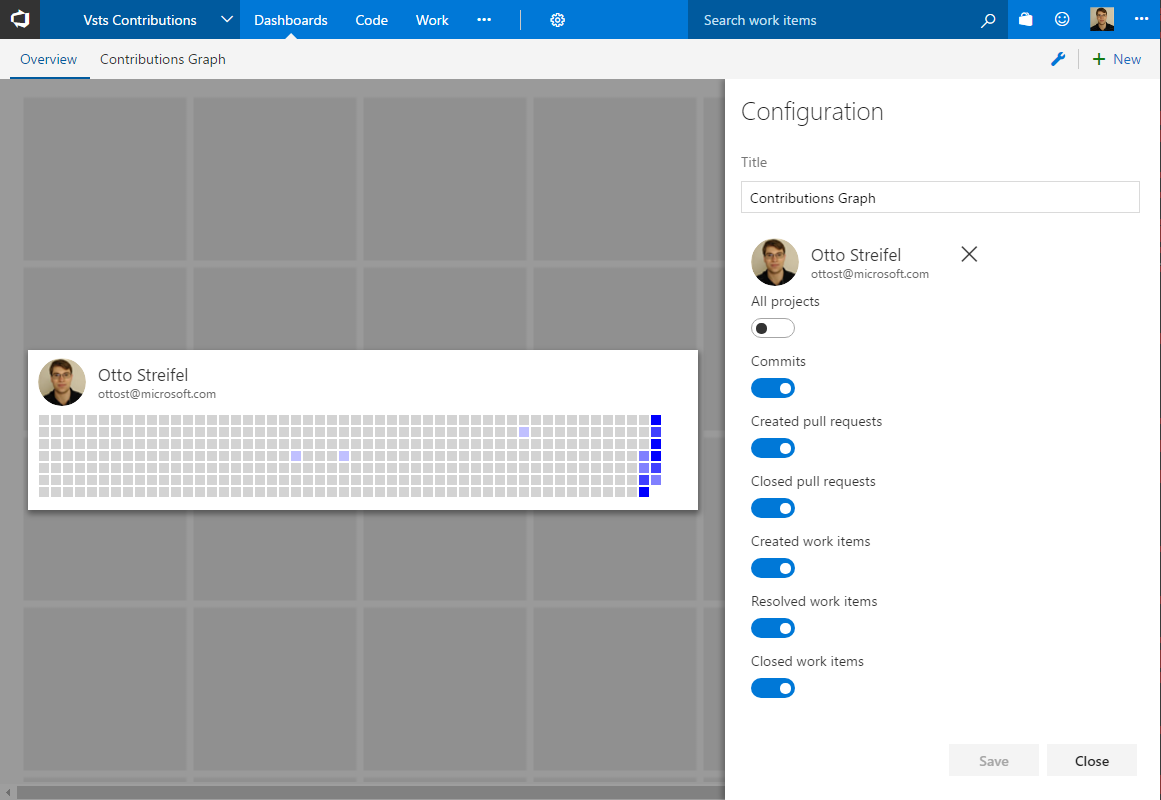
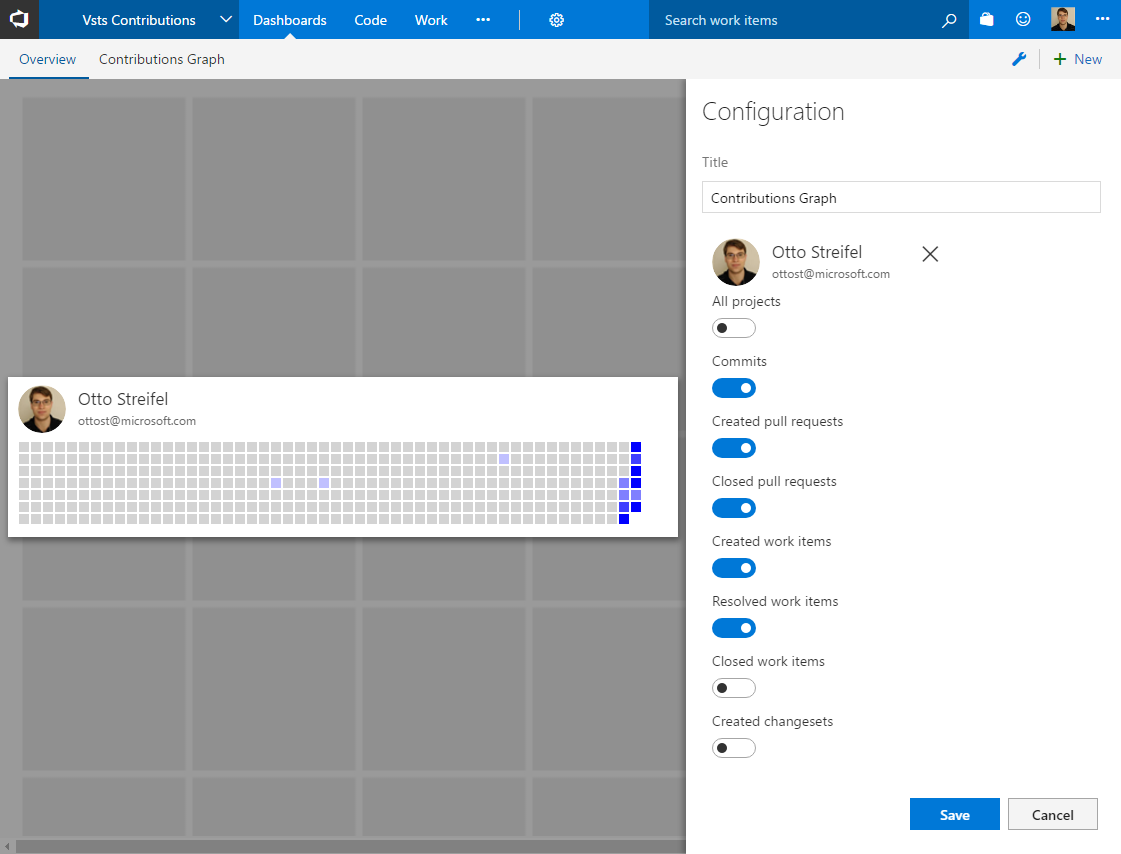
v1.3.1 Release tfvc contribution types

Changed region(s): [[0.0, 0.0, 1.0, 1.0], [0.8118, 0.9062, 0.9679, 1.0], [0.8118, 0.2812, 0.843, 0.3125]]

diff --git a/details.md b/details.md
@@ -24,12 +24,12 @@ Click the selected day to show contributions for the whole year.
 
 Click that any day on the graph to show only the contribution details for that particular day
 
-## Planned (in order)
-- Include tfvc type contributions
+## Planned
 - Validate and release for on premise installations (url formats in links expected to create issues)
 
 ## Version History
-(06/16/2017) v2.1.1 Dashboard Widget
+(06/16/2017) v1.3.1 Include tvcs changeset contribution types    
+(06/16/2017) v1.2.1 Dashboard Widget
 (06/14/2017) v1.1.1 Select identity for contributions  
 (06/11/2017) v1.0.9 Fix issue retrieving commits  
 (06/11/2017) v1.0.1 Initial Release
